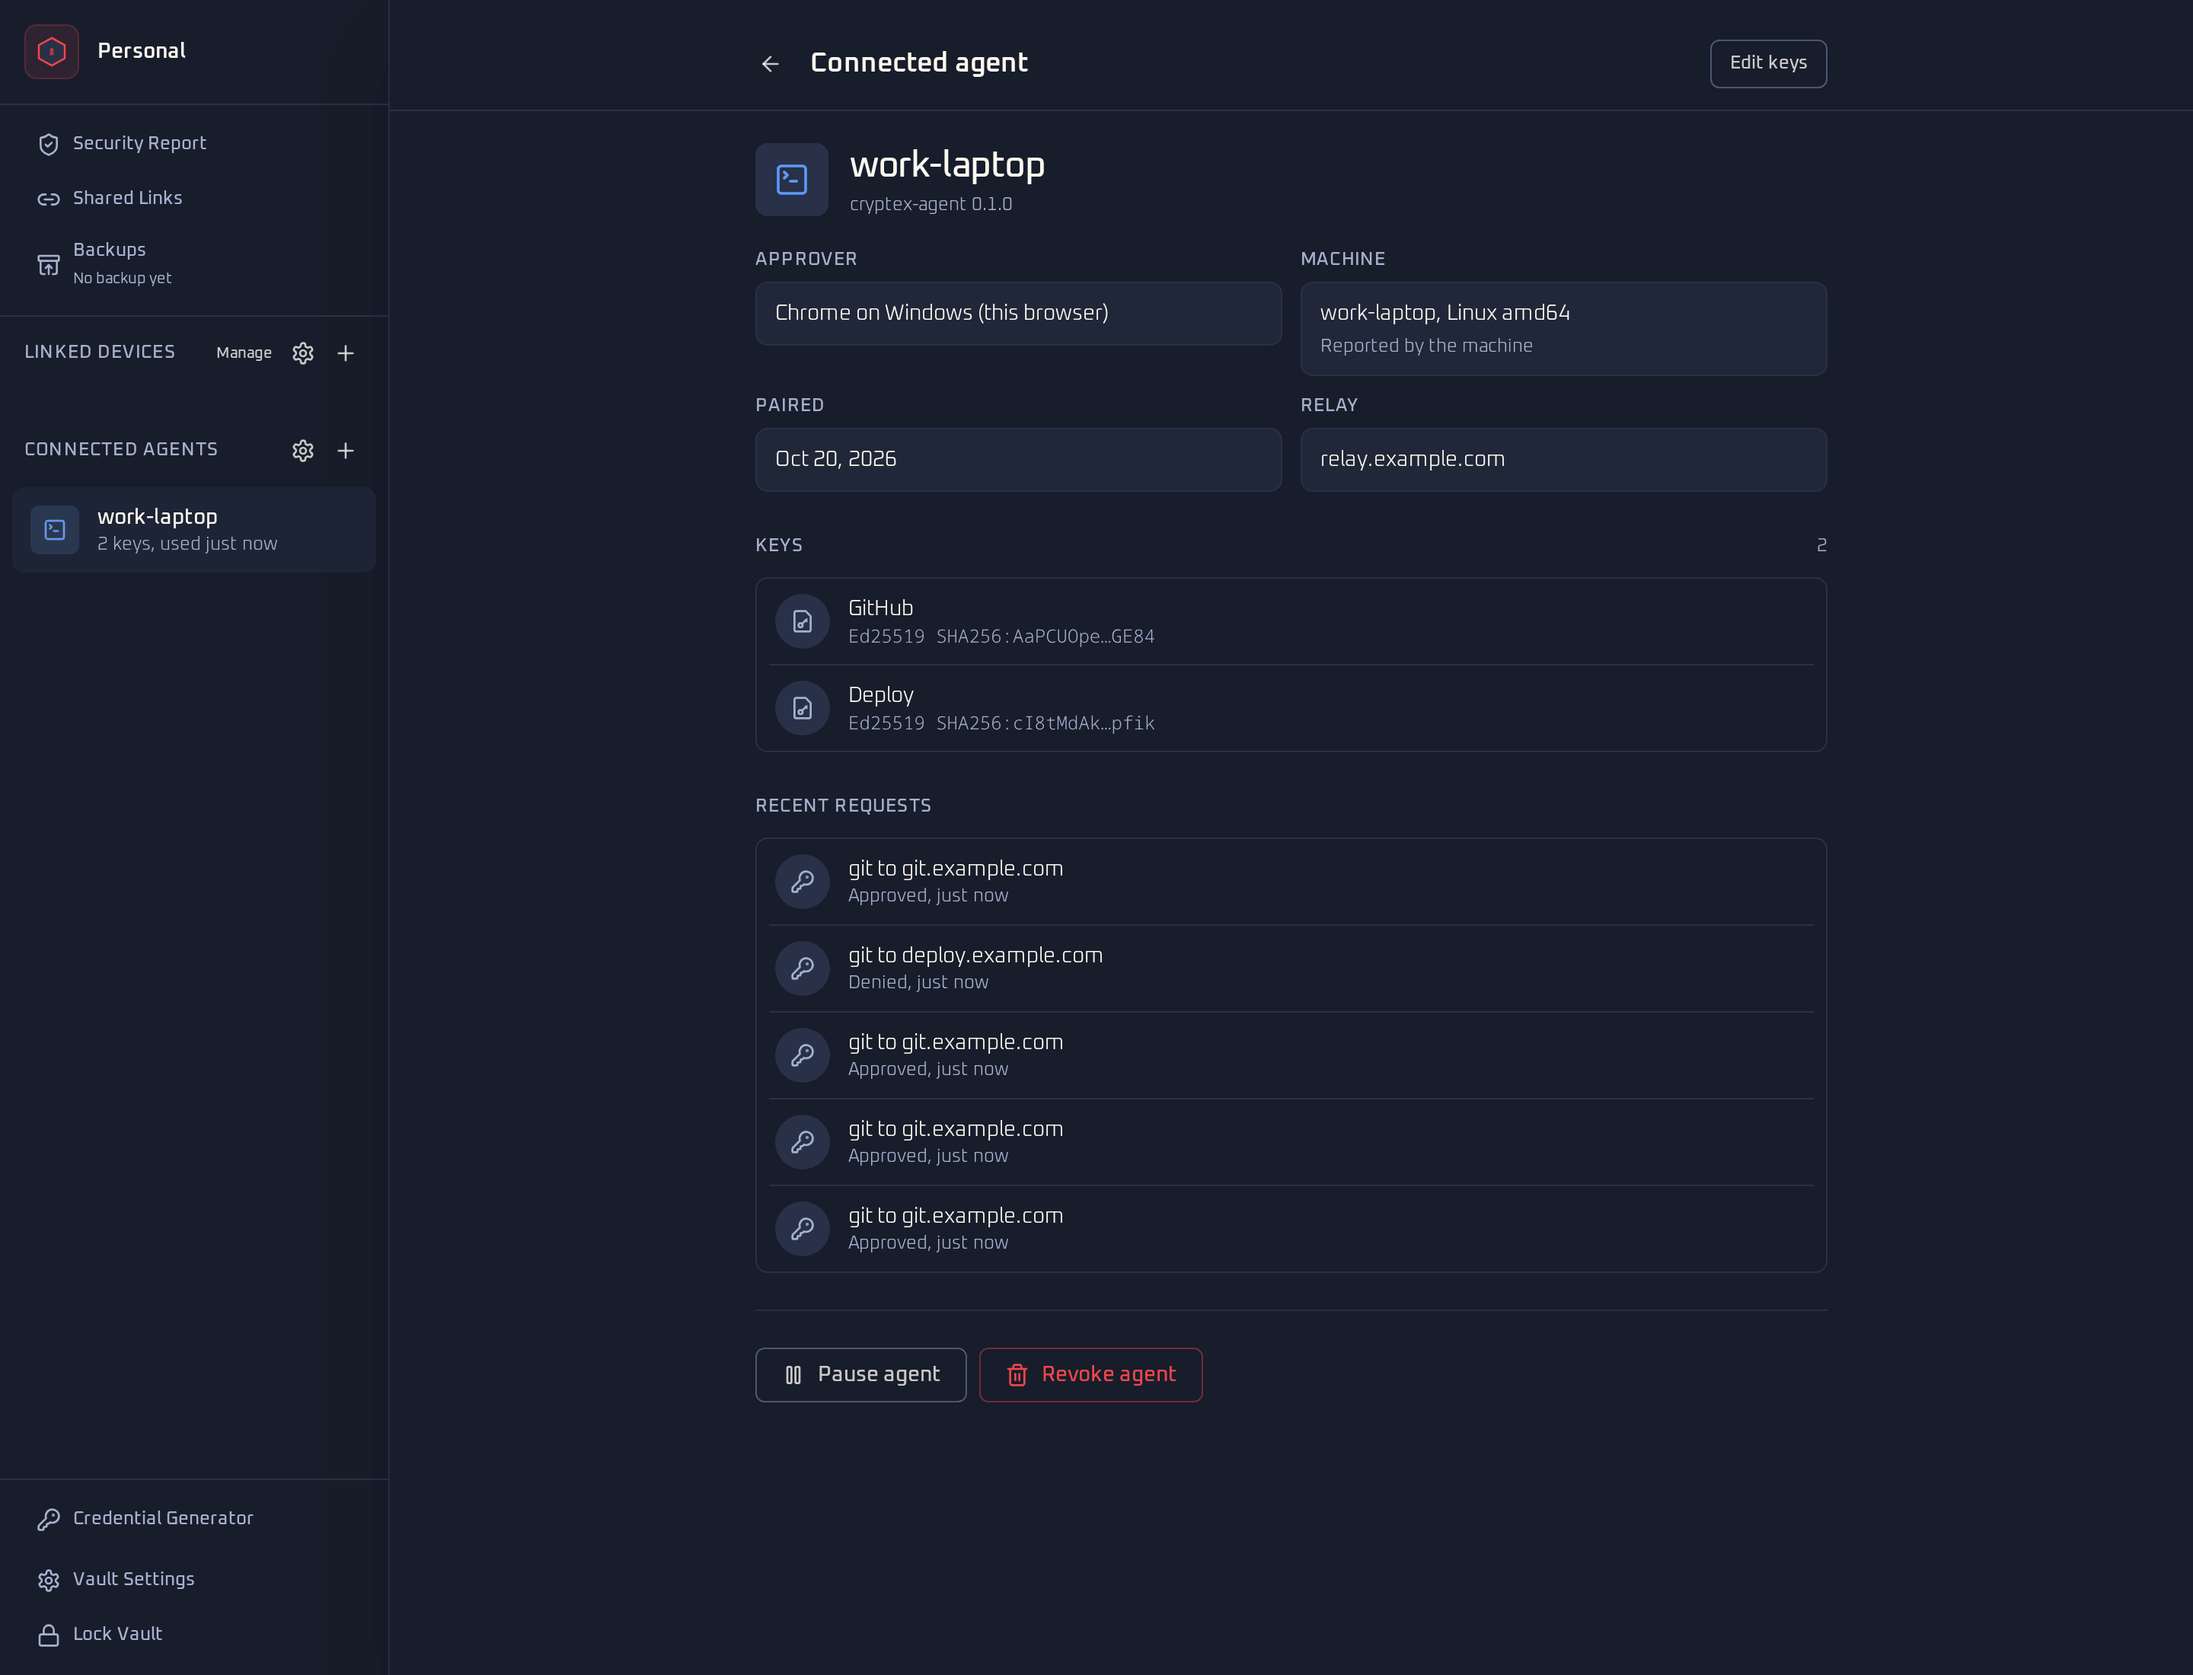
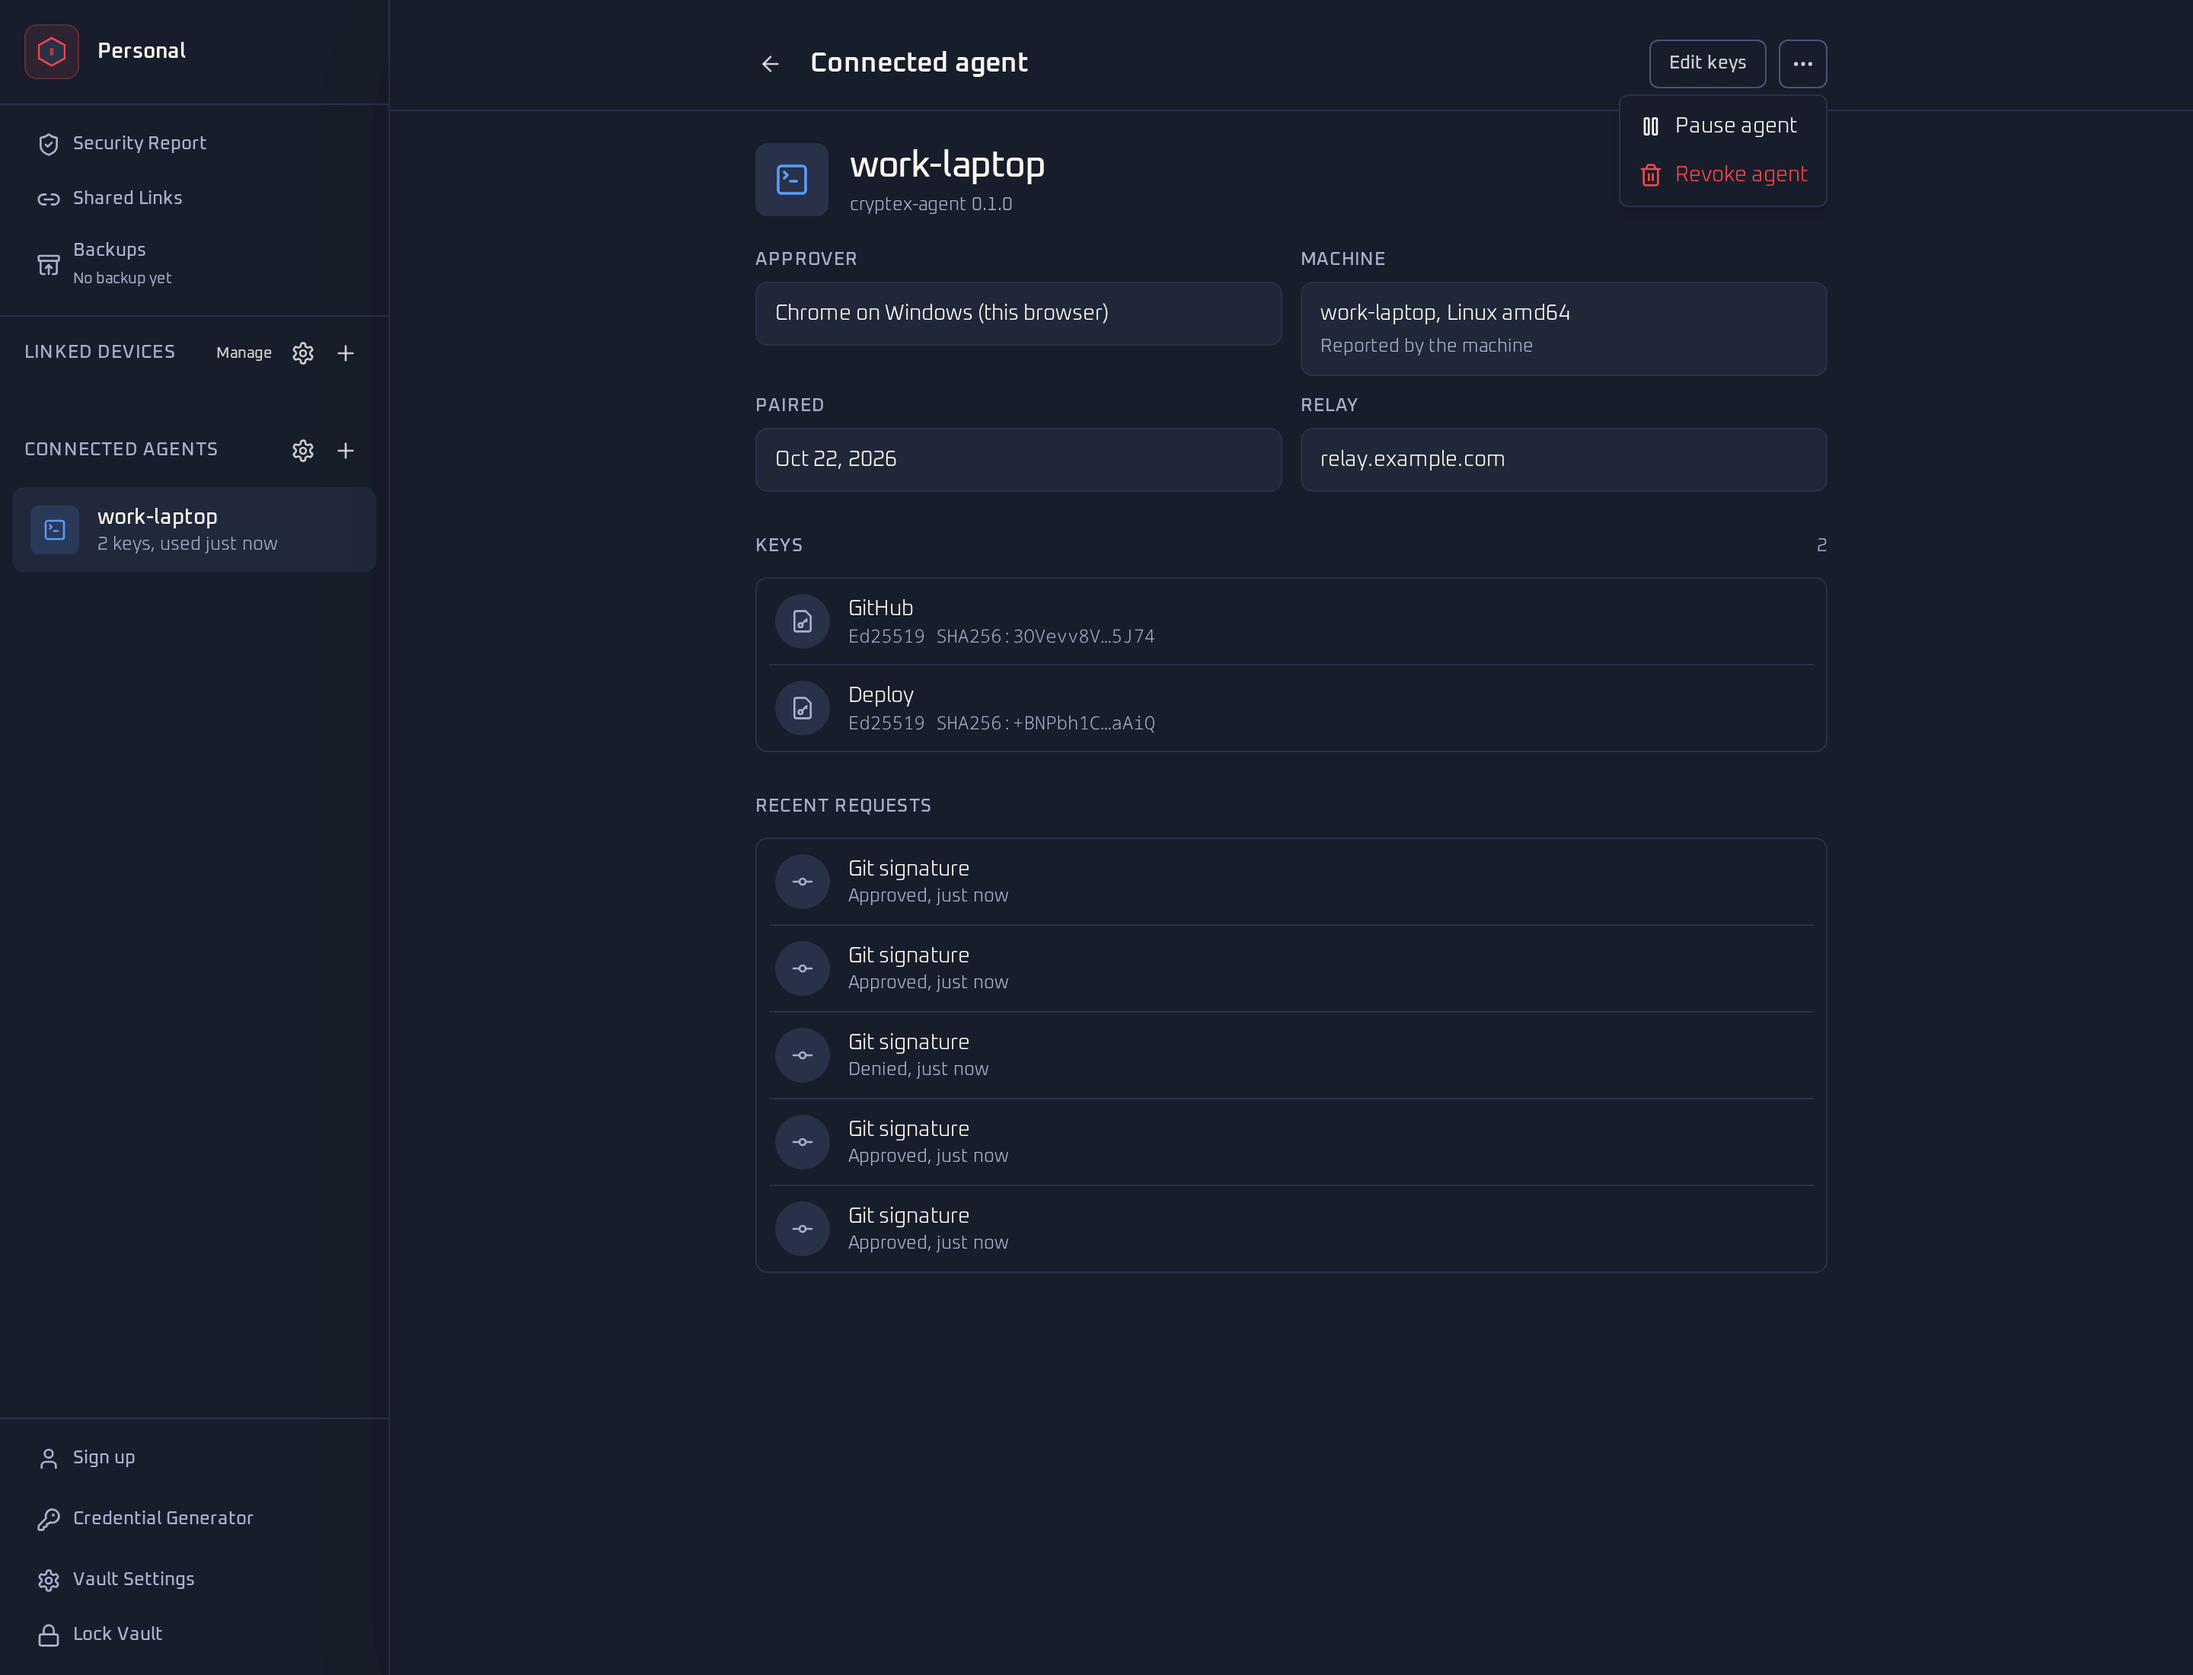
fix(ssh-agent): move Pause and Revoke into a menu at the top of the web agent page

diff --git a/web/src/components/agents/agent-view.tsx b/web/src/components/agents/agent-view.tsx
@@ -5,6 +5,7 @@ import {
     ArrowLeft,
     GitCommitHorizontal,
     KeyRound,
+    MoreHorizontal,
     Pause,
     PenLine,
     Play,
@@ -48,7 +49,12 @@ import {
     DialogTitle,
 } from "@/components/ui/dialog";
 import { ScrollArea } from "@/components/ui/scroll-area";
-import { Separator } from "@/components/ui/separator";
+import {
+    DropdownMenu,
+    DropdownMenuContent,
+    DropdownMenuItem,
+    DropdownMenuTrigger,
+} from "@/components/ui/dropdown-menu";
 import { unlockedVaultAtom } from "@/utils/atoms";
 import { useConnectedAgents } from "./agent-host-context";
 import {
@@ -199,19 +205,70 @@ export function AgentView({
             onBack={onBack}
             scrollerRef={setScroller}
             actions={
-                here ? (
-                    <Button
-                        variant="outline"
-                        size="sm"
-                        data-testid="agent-edit-keys"
-                        onClick={() => {
-                            setDraft(agent.CredentialIDs);
-                            setEditing(true);
-                        }}
-                    >
-                        Edit keys
-                    </Button>
-                ) : null
+                <div className="flex items-center gap-2">
+                    {here ? (
+                        <Button
+                            variant="outline"
+                            size="sm"
+                            data-testid="agent-edit-keys"
+                            onClick={() => {
+                                setDraft(agent.CredentialIDs);
+                                setEditing(true);
+                            }}
+                        >
+                            Edit keys
+                        </Button>
+                    ) : null}
+                    <DropdownMenu>
+                        <DropdownMenuTrigger asChild>
+                            <Button
+                                variant="outline"
+                                size="icon"
+                                className="h-8 w-8"
+                                aria-label="More agent actions"
+                                data-testid="agent-menu"
+                            >
+                                <MoreHorizontal className="h-4 w-4" />
+                            </Button>
+                        </DropdownMenuTrigger>
+                        <DropdownMenuContent align="end">
+                            <DropdownMenuItem
+                                data-testid={
+                                    agent.Paused
+                                        ? "agent-resume-page"
+                                        : "agent-pause-page"
+                                }
+                                disabled={pausing || !host}
+                                onSelect={() => void setPaused(!agent.Paused)}
+                            >
+                                {agent.Paused ? (
+                                    <Play
+                                        className="h-4 w-4"
+                                        aria-hidden="true"
+                                    />
+                                ) : (
+                                    <Pause
+                                        className="h-4 w-4"
+                                        aria-hidden="true"
+                                    />
+                                )}
+                                {agent.Paused ? "Resume agent" : "Pause agent"}
+                            </DropdownMenuItem>
+                            <DropdownMenuItem
+                                data-testid="agent-revoke"
+                                disabled={revoking}
+                                onSelect={() => setConfirmRevoke(true)}
+                                className="text-destructive"
+                            >
+                                <Trash2
+                                    className="h-4 w-4"
+                                    aria-hidden="true"
+                                />
+                                {relayForgot ? "Remove agent" : "Revoke agent"}
+                            </DropdownMenuItem>
+                        </DropdownMenuContent>
+                    </DropdownMenu>
+                </div>
             }
         >
             <div className="flex items-center gap-3.5">
@@ -362,30 +419,6 @@ export function AgentView({
                         No requests yet.
                     </p>
                 )}
-            </div>
-
-            <Separator className="my-6" />
-            <div className="flex flex-wrap gap-2">
-                {agent.Paused ? null : (
-                    <Button
-                        variant="outline"
-                        data-testid="agent-pause-page"
-                        disabled={pausing || !host}
-                        onClick={() => void setPaused(true)}
-                    >
-                        <Pause className="h-4 w-4" aria-hidden="true" />
-                        Pause agent
-                    </Button>
-                )}
-                <Button
-                    variant="destructive"
-                    data-testid="agent-revoke"
-                    disabled={revoking}
-                    onClick={() => setConfirmRevoke(true)}
-                >
-                    <Trash2 className="h-4 w-4" />
-                    {relayForgot ? "Remove agent" : "Revoke agent"}
-                </Button>
             </div>
 
             <AlertDialog

diff --git a/web/src/pages/docs/ssh-agent.tsx b/web/src/pages/docs/ssh-agent.tsx
@@ -476,9 +476,9 @@ export default function SSHAgent() {
                     used and syncs to your other devices with the vault.
                 </p>
                 <p>
-                    You can also pause from the agent&apos;s page: with{" "}
-                    <strong>Pause agent</strong> in the web app, or from the
-                    menu at the top on Android. The page then shows{" "}
+                    You can also pause from the agent&apos;s page: open the menu
+                    at the top, next to <strong>Edit keys</strong>, and choose{" "}
+                    <strong>Pause agent</strong>. The page then shows{" "}
                     <strong>Paused</strong> with a <strong>Resume</strong>{" "}
                     button. After you resume, requests ask again.
                 </p>
@@ -601,8 +601,8 @@ export default function SSHAgent() {
                 />
                 <DocScreenshot
                     src="/images/docs/ssh-agent-web-agent-page.png"
-                    alt="Agent page for work-laptop with approver, machine, paired date, relay, two keys, recent requests, and Pause agent and Revoke agent buttons"
-                    caption="Choose the agent under Connected Agents to open its page. Edit keys is at the top, Pause agent and Revoke agent at the bottom."
+                    alt="Agent page for work-laptop with approver, machine, paired date, relay, two keys and recent requests, and the menu next to Edit keys open with Pause agent and Revoke agent"
+                    caption="Choose the agent under Connected Agents to open its page. Edit keys is at the top. The menu button next to it has Pause agent and Revoke agent."
                     width={2880}
                     height={2200}
                 />
@@ -615,11 +615,10 @@ export default function SSHAgent() {
                 </p>
                 <h3>Revoke an agent</h3>
                 <p>
-                    In the web app, open the agent and choose{" "}
-                    <strong>Revoke agent</strong>. On Android, open the agent,
-                    tap the menu button at the top and choose{" "}
-                    <strong>Revoke agent</strong>. Any of your linked devices
-                    can do this. On the machine itself, run:
+                    Open the agent, open the menu at the top and choose{" "}
+                    <strong>Revoke agent</strong>, in the web app or on Android.
+                    Any of your linked devices can do this. On the machine
+                    itself, run:
                 </p>
                 <DocScreenshot
                     src="/images/docs/ssh-agent-android-agent-menu.png"

diff --git a/web/e2e/tests/ssh-agent.spec.ts b/web/e2e/tests/ssh-agent.spec.ts
@@ -428,7 +428,8 @@ test("approves cryptex-agent requests from the dashboard", async ({
             .toBe(1);
 
         // -- Pause: refused without asking, then resume ----------------------
-        await view.getByTestId("agent-pause-page").click();
+        await view.getByTestId("agent-menu").click();
+        await page.getByTestId("agent-pause-page").click();
         await expect(view.getByTestId("agent-paused")).toBeVisible();
         await view.getByTestId("agent-paused").scrollIntoViewIfNeeded();
         await shot(page, "20-agent-paused");
@@ -546,6 +547,7 @@ test("approves cryptex-agent requests from the dashboard", async ({
         await shot(tab2, "22-relay-forgot-agent");
 
         // -- Remove it (the normal revoke) --------------------------------------
+        await tab2.getByTestId("agent-menu").click();
         await tab2.getByTestId("agent-revoke").click();
         await expect(tab2.getByRole("alertdialog")).toBeVisible();
         await shot(tab2, "17-revoke-confirmation");
